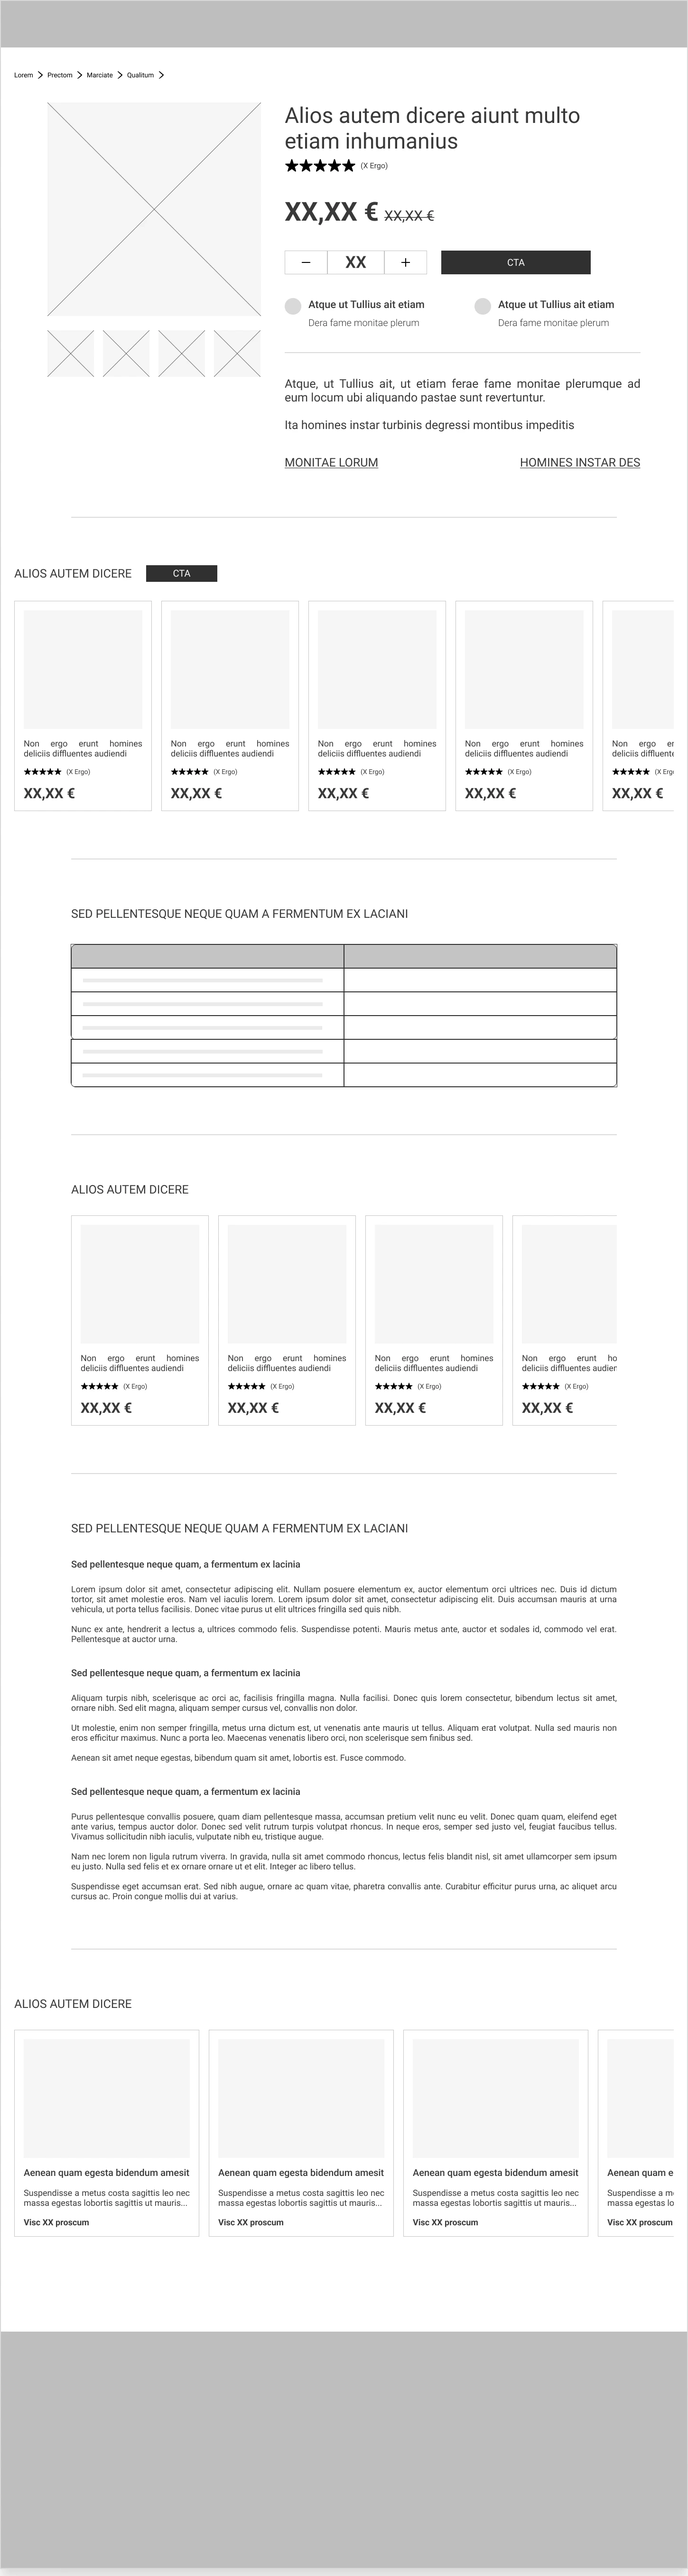
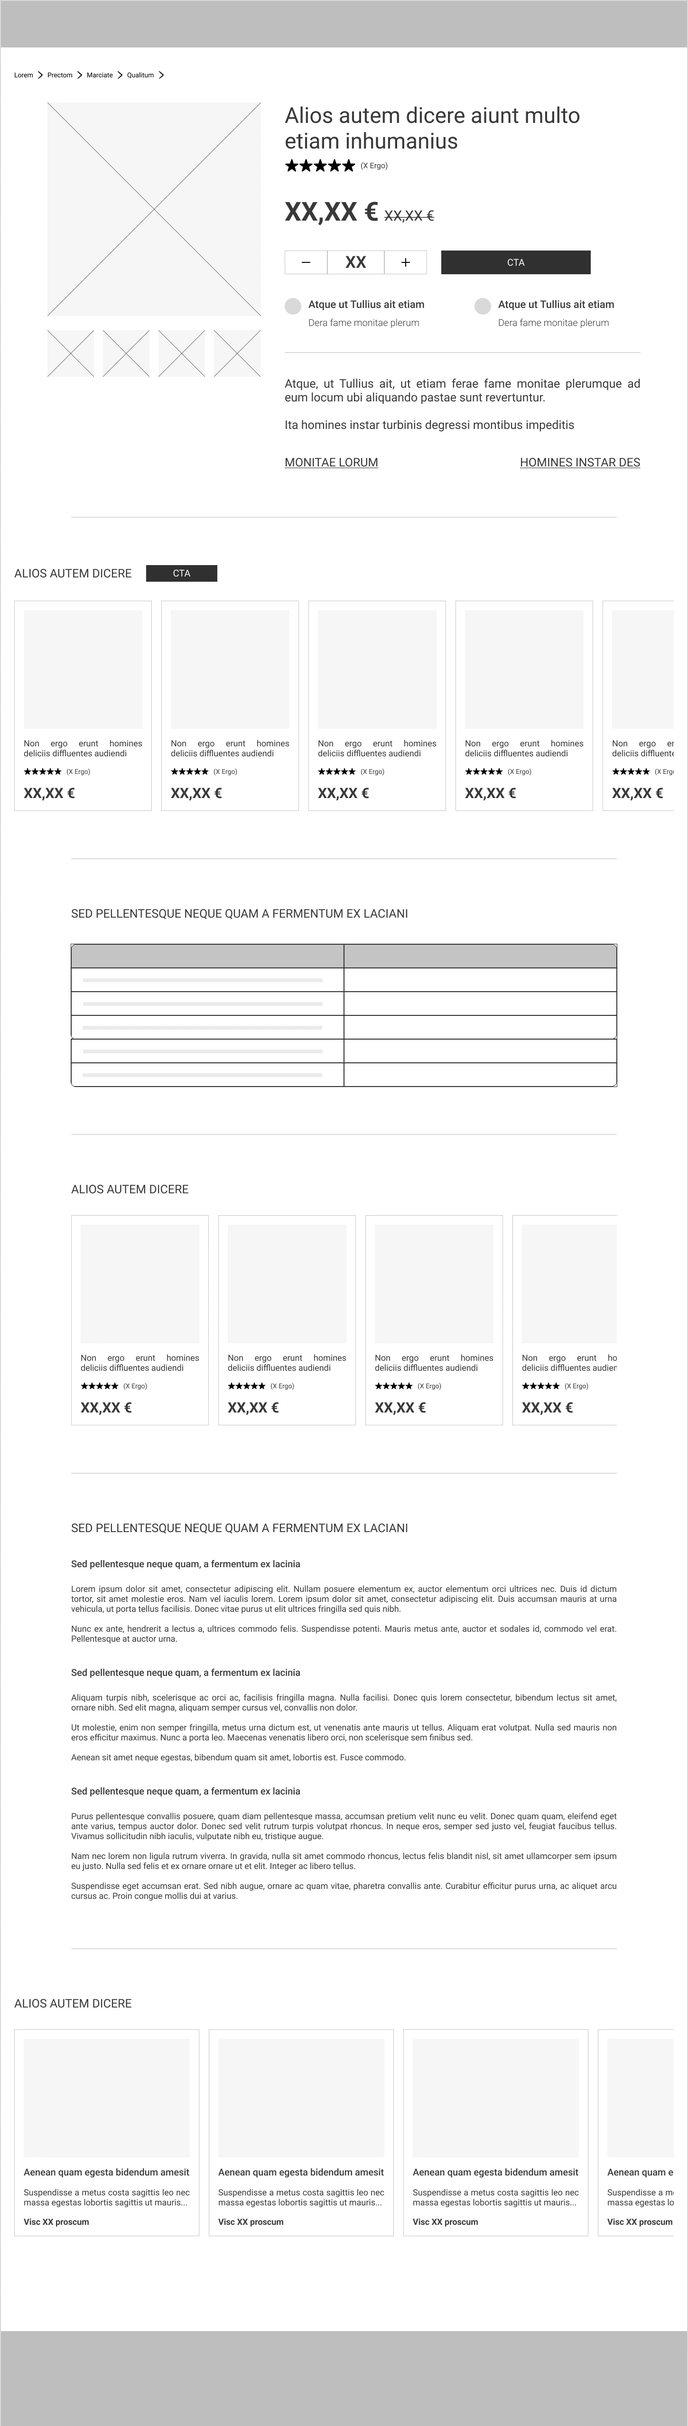
E-commerce : footer des wireframes desktop raccourci
Claude-Session: https://claude.ai/code/session_01THwdntjNiSuDEHoKbgxniL

diff --git a/projets/refonte-site-e-commerce-play-in/index.html b/projets/refonte-site-e-commerce-play-in/index.html
@@ -164,15 +164,15 @@
         <div class="st-wfs">
           <figure class="st-wf st-wf--full">
             <figcaption><span class="st-wf__num">01</span><strong>Accueil</strong>Mises en avant, univers et sélections de produits</figcaption>
-            <div class="st-wf__pair"><div class="st-wf__col"><span class="st-wf__label">Desktop</span><div class="st-wf__desk st-scroll" tabindex="0" role="region" aria-label="Wireframe desktop : Accueil, défilable"><img src="../../assets/img/play-in-ecommerce/wf/home-d.webp" alt="Wireframe desktop : Accueil" width="1450" height="6500" loading="lazy"></div></div><div class="st-wf__col"><span class="st-wf__label">Mobile</span><div class="st-wf__mob st-scroll" tabindex="0" role="region" aria-label="Wireframe mobile : Accueil, défilable"><img src="../../assets/img/play-in-ecommerce/wf/home-m.webp" alt="Wireframe mobile : Accueil" width="700" height="1686" loading="lazy"></div></div></div>
+            <div class="st-wf__pair"><div class="st-wf__col"><span class="st-wf__label">Desktop</span><div class="st-wf__desk st-scroll" tabindex="0" role="region" aria-label="Wireframe desktop : Accueil, défilable"><img src="../../assets/img/play-in-ecommerce/wf/home-d.webp" alt="Wireframe desktop : Accueil" width="1450" height="6185" loading="lazy"></div></div><div class="st-wf__col"><span class="st-wf__label">Mobile</span><div class="st-wf__mob st-scroll" tabindex="0" role="region" aria-label="Wireframe mobile : Accueil, défilable"><img src="../../assets/img/play-in-ecommerce/wf/home-m.webp" alt="Wireframe mobile : Accueil" width="700" height="1686" loading="lazy"></div></div></div>
           </figure>
           <figure class="st-wf st-wf--full">
             <figcaption><span class="st-wf__num">02</span><strong>Page produit</strong>Prix, quantité et ajout au panier dès le premier écran</figcaption>
-            <div class="st-wf__pair"><div class="st-wf__col"><span class="st-wf__label">Desktop</span><div class="st-wf__desk st-scroll" tabindex="0" role="region" aria-label="Wireframe desktop : Page produit, défilable"><img src="../../assets/img/play-in-ecommerce/wf/produit-d.webp" alt="Wireframe desktop : Page produit" width="1450" height="5428" loading="lazy"></div></div><div class="st-wf__col"><span class="st-wf__label">Mobile</span><div class="st-wf__mob st-scroll" tabindex="0" role="region" aria-label="Wireframe mobile : Page produit, défilable"><img src="../../assets/img/play-in-ecommerce/wf/produit-m.webp" alt="Wireframe mobile : Page produit" width="700" height="1686" loading="lazy"></div></div></div>
+            <div class="st-wf__pair"><div class="st-wf__col"><span class="st-wf__label">Desktop</span><div class="st-wf__desk st-scroll" tabindex="0" role="region" aria-label="Wireframe desktop : Page produit, défilable"><img src="../../assets/img/play-in-ecommerce/wf/produit-d.webp" alt="Wireframe desktop : Page produit" width="1450" height="5113" loading="lazy"></div></div><div class="st-wf__col"><span class="st-wf__label">Mobile</span><div class="st-wf__mob st-scroll" tabindex="0" role="region" aria-label="Wireframe mobile : Page produit, défilable"><img src="../../assets/img/play-in-ecommerce/wf/produit-m.webp" alt="Wireframe mobile : Page produit" width="700" height="1686" loading="lazy"></div></div></div>
           </figure>
           <figure class="st-wf st-wf--full">
             <figcaption><span class="st-wf__num">03</span><strong>Panier</strong>Articles, quantités et récapitulatif toujours visible</figcaption>
-            <div class="st-wf__pair"><div class="st-wf__col"><span class="st-wf__label">Desktop</span><div class="st-wf__desk st-scroll" tabindex="0" role="region" aria-label="Wireframe desktop : Panier, défilable"><img src="../../assets/img/play-in-ecommerce/wf/panier-d.webp" alt="Wireframe desktop : Panier" width="1450" height="2896" loading="lazy"></div></div><div class="st-wf__col"><span class="st-wf__label">Mobile</span><div class="st-wf__mob st-scroll" tabindex="0" role="region" aria-label="Wireframe mobile : Panier, défilable"><img src="../../assets/img/play-in-ecommerce/wf/panier-m.webp" alt="Wireframe mobile : Panier" width="700" height="1686" loading="lazy"></div></div></div>
+            <div class="st-wf__pair"><div class="st-wf__col"><span class="st-wf__label">Desktop</span><div class="st-wf__desk st-scroll" tabindex="0" role="region" aria-label="Wireframe desktop : Panier, défilable"><img src="../../assets/img/play-in-ecommerce/wf/panier-d.webp" alt="Wireframe desktop : Panier" width="1450" height="2581" loading="lazy"></div></div><div class="st-wf__col"><span class="st-wf__label">Mobile</span><div class="st-wf__mob st-scroll" tabindex="0" role="region" aria-label="Wireframe mobile : Panier, défilable"><img src="../../assets/img/play-in-ecommerce/wf/panier-m.webp" alt="Wireframe mobile : Panier" width="700" height="1686" loading="lazy"></div></div></div>
           </figure>
           <figure class="st-wf">
             <figcaption><span class="st-wf__num">04</span><strong>Connexion</strong>Se connecter ou créer un compte sans quitter la page</figcaption>
